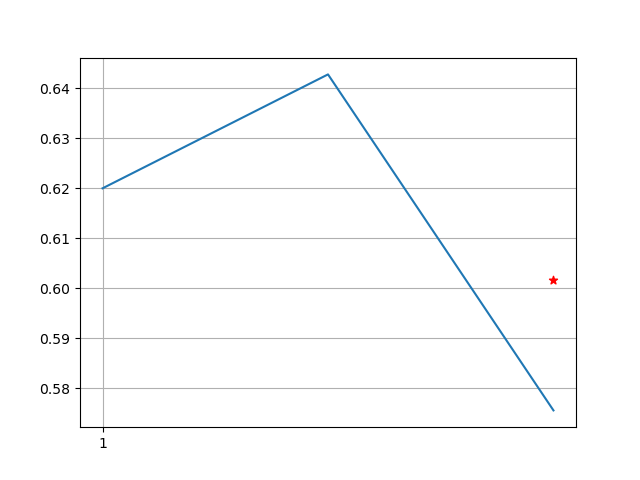
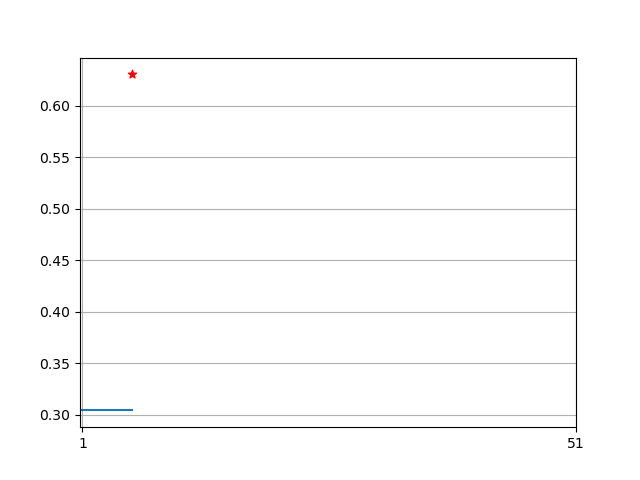
plotting

diff --git a/bertcls.py b/bertcls.py
@@ -122,6 +122,10 @@ def eval(model, dl, criterion):
     return mean_loss / count, y_true, y_pred
 
 
+def moving_average(x, w):
+    return np.convolve(x, np.ones(w), 'valid') / w
+
+
 def CV(data, labels, nfolds=4, train_epochs=3, lr=1e-6, bs=32, wd=1e-6):
     # TODO: добавить отрисовку и сохранение графика усредненных по всем фолдам потерь на тесте и обучении
     kf = StratifiedKFold(n_splits=nfolds, shuffle=True, random_state=7)
@@ -143,6 +147,7 @@ def CV(data, labels, nfolds=4, train_epochs=3, lr=1e-6, bs=32, wd=1e-6):
         sizes = []
         for epoch_history, test_loss, test_scores in train(train_epochs, cls, train_dl,
                                                            criterion, optimizer, test_dl):
+            epoch_history = moving_average(epoch_history, 10).tolist()
             loss_history.extend(epoch_history)
             validation.append(test_loss)
             sizes.append(len(loss_history))
@@ -151,7 +156,7 @@ def CV(data, labels, nfolds=4, train_epochs=3, lr=1e-6, bs=32, wd=1e-6):
                 plt.plot(np.arange(1, sizes[-1] + 1), loss_history)
                 plt.scatter(sizes, validation, marker='*', c='red')
                 plt.grid()
-                plt.xticks(np.arange(1, sizes[-1] + 1, 10))
+                plt.xticks(np.arange(1, sizes[-1] + 50, 50))
                 plt.savefig(f'plots/{epoch}.png')
                 plt.show()
 
@@ -193,4 +198,4 @@ if __name__ == "__main__":
     p.close()
 
     for lr in [2e-6]:
-        CV(data, labels, nfolds=4, train_epochs=3, lr=lr, bs=5, wd=0)
+        CV(data, labels, nfolds=4, train_epochs=3, lr=lr, bs=64, wd=0)
